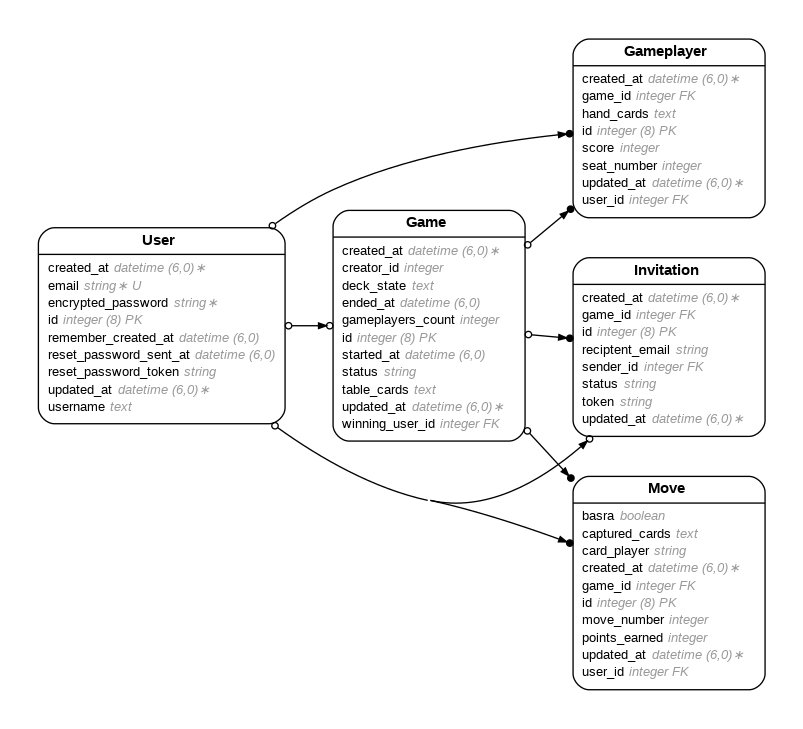
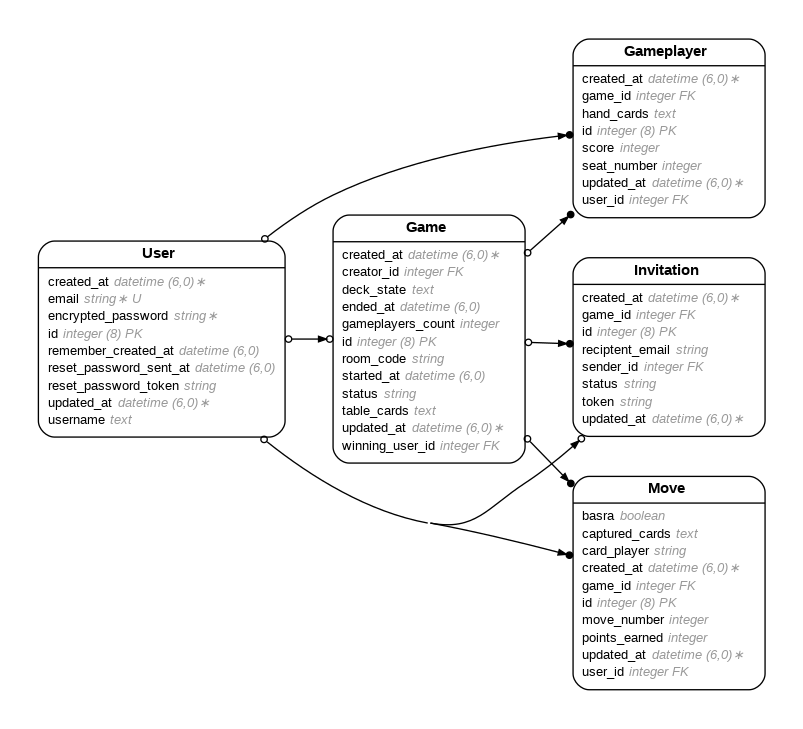
Room Code

diff --git a/app/controllers/games_controller.rb b/app/controllers/games_controller.rb
@@ -1,8 +1,5 @@
 class GamesController < ApplicationController
   def index
-    matching_games = Game.all
-    @list_of_games = matching_games.order({ :created_at => :desc })
-
     render({ :template => "game_templates/index" })
   end
 
@@ -22,11 +19,11 @@ class GamesController < ApplicationController
 
     @game = Game.new
 
-    @game.creator_id  = current_user.id 
-    @game.status      = "waiting"
-    @game.started_at  = Time.current
+    @game.creator_id = current_user.id
+    @game.status = "waiting"
+    @game.started_at = Time.current
     @game.table_cards = [].to_json
-    @game.deck_state  = initial_deck.to_json
+    @game.deck_state = initial_deck.to_json
 
     if @game.valid?
       @game.save
@@ -40,18 +37,18 @@ class GamesController < ApplicationController
     the_id = params.fetch("path_id")
     the_game = Game.where({ :id => the_id }).at(0)
 
-    the_game.status            = params.fetch("query_status")
-    the_game.creator_id        = params.fetch("query_creator_id")
-    the_game.table_cards       = params.fetch("query_table_cards")
-    the_game.deck_state        = params.fetch("query_deck_state")
-    the_game.winning_user_id   = params.fetch("query_winning_user_id")
-    the_game.started_at        = params.fetch("query_started_at")
-    the_game.ended_at          = params.fetch("query_ended_at")
+    the_game.status = params.fetch("query_status")
+    the_game.creator_id = params.fetch("query_creator_id")
+    the_game.table_cards = params.fetch("query_table_cards")
+    the_game.deck_state = params.fetch("query_deck_state")
+    the_game.winning_user_id = params.fetch("query_winning_user_id")
+    the_game.started_at = params.fetch("query_started_at")
+    the_game.ended_at = params.fetch("query_ended_at")
     the_game.gameplayers_count = params.fetch("query_gameplayers_count")
 
     if the_game.valid?
       the_game.save
-      redirect_to("/games/#{the_game.id}", { :notice => "Game updated successfully." } )
+      redirect_to("/games/#{the_game.id}", { :notice => "Game updated successfully." })
     else
       redirect_to("/games/#{the_game.id}", { :alert => the_game.errors.full_messages.to_sentence })
     end
@@ -63,7 +60,51 @@ class GamesController < ApplicationController
 
     the_game.destroy
 
-    redirect_to("/games", { :notice => "Game deleted successfully." } )
+    redirect_to("/games", { :notice => "Game deleted successfully." })
+  end
+
+  def join_form
+    matching_games = Game.all
+    @list_of_games = matching_games.order({ :created_at => :desc })
+    render({ :template => "game_templates/join" })
+  end
+
+  def join_by_code
+    if current_user.nil?
+      redirect_to("/", { :alert => "You must be signed in to join a game." })
+      return
+    end
+
+    room_code = params.fetch("query_room_code").to_s.strip.upcase
+
+    the_game = Game.where({ :room_code => room_code }).at(0)
+
+    if the_game.nil?
+      redirect_to("/join", { :alert => "No game found with that code." })
+      return
+    end
+
+    existing = Gameplayer.where({ :game_id => the_game.id, :user_id => current_user.id }).at(0) # not working right now
+    if existing.present?
+      redirect_to("/games/#{the_game.id}", { :notice => "You are already in that game." })
+      return
+    end
+
+    next_seat = the_game.gameplayers.count + 1
+
+    new_gp = Gameplayer.new
+    new_gp.game_id = the_game.id
+    new_gp.user_id = current_user.id
+    new_gp.seat_number = next_seat
+    new_gp.score = 0
+    new_gp.hand_cards = [].to_json
+
+    if new_gp.valid?
+      new_gp.save
+      redirect_to("/games/#{the_game.id}", { :notice => "Joined game!" })
+    else
+      redirect_to("/join", { :alert => new_gp.errors.full_messages.to_sentence })
+    end
   end
 
   private

diff --git a/app/models/game.rb b/app/models/game.rb
@@ -1,22 +1,28 @@
-# == Schema Information
-#
-# Table name: games
-#
-#  id                :bigint           not null, primary key
-#  deck_state        :text
-#  ended_at          :datetime
-#  gameplayers_count :integer
-#  started_at        :datetime
-#  status            :string
-#  table_cards       :text
-#  created_at        :datetime         not null
-#  updated_at        :datetime         not null
-#  creator_id        :integer
-#  winning_user_id   :integer
-#
 class Game < ApplicationRecord
-  has_many  :gameplayers, class_name: "Gameplayer", foreign_key: "game_id", dependent: :destroy
-  has_many  :invitations, class_name: "Invitation", foreign_key: "game_id", dependent: :destroy
-  has_many  :moves, class_name: "Move", foreign_key: "game_id", dependent: :destroy
+  has_many :gameplayers, class_name: "Gameplayer", foreign_key: "game_id", dependent: :destroy
+  has_many :invitations, class_name: "Invitation", foreign_key: "game_id", dependent: :destroy
+  has_many :moves, class_name: "Move", foreign_key: "game_id", dependent: :destroy
   belongs_to :creator, class_name: "User", foreign_key: "creator_id", optional: true
+
+  before_create :generate_room_code
+
+  private
+
+  def generate_room_code
+    self.room_code ||= loop do
+      code = SecureRandom.alphanumeric(6).upcase
+      break code unless Game.exists?(room_code: code)
+    end
+  end
+
+  before_create :generate_room_code
+
+  private
+
+  def generate_room_code
+    self.room_code ||= loop do
+      code = SecureRandom.alphanumeric(6).upcase
+      break code unless Game.exists?(room_code: code)
+    end
+  end
 end

diff --git a/db/schema.rb b/db/schema.rb
@@ -10,7 +10,7 @@
 #
 # It's strongly recommended that you check this file into your version control system.
 
-ActiveRecord::Schema[8.0].define(version: 2025_11_22_225409) do
+ActiveRecord::Schema[8.0].define(version: 2025_11_23_184059) do
   # These are extensions that must be enabled in order to support this database
   enable_extension "pg_catalog.plpgsql"
 
@@ -35,6 +35,7 @@ ActiveRecord::Schema[8.0].define(version: 2025_11_22_225409) do
     t.integer "gameplayers_count"
     t.datetime "created_at", null: false
     t.datetime "updated_at", null: false
+    t.string "room_code"
   end
 
   create_table "invitations", force: :cascade do |t|

diff --git a/config/routes.rb b/config/routes.rb
@@ -79,7 +79,8 @@ Rails.application.routes.draw do
 
   #------------------------------
 
+  get("/join",       { :controller => "games", :action => "join_form" })
+  post("/join_game", { :controller => "games", :action => "join_by_code" })
+
   devise_for :users
-  # This is a blank app! Pick your first screen, build out the RCAV, and go from there. E.g.:
-  # get("/your_first_screen", { :controller => "pages", :action => "first" })
 end

diff --git a/db/migrate/20251123184059_add_room_code_to_games.rb b/db/migrate/20251123184059_add_room_code_to_games.rb
@@ -1,0 +1,5 @@
+class AddRoomCodeToGames < ActiveRecord::Migration[8.0]
+  def change
+    add_column :games, :room_code, :string
+  end
+end
